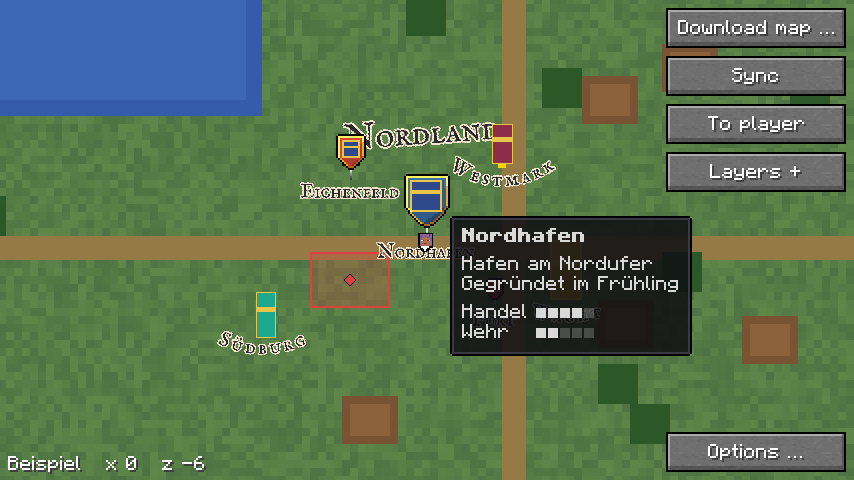
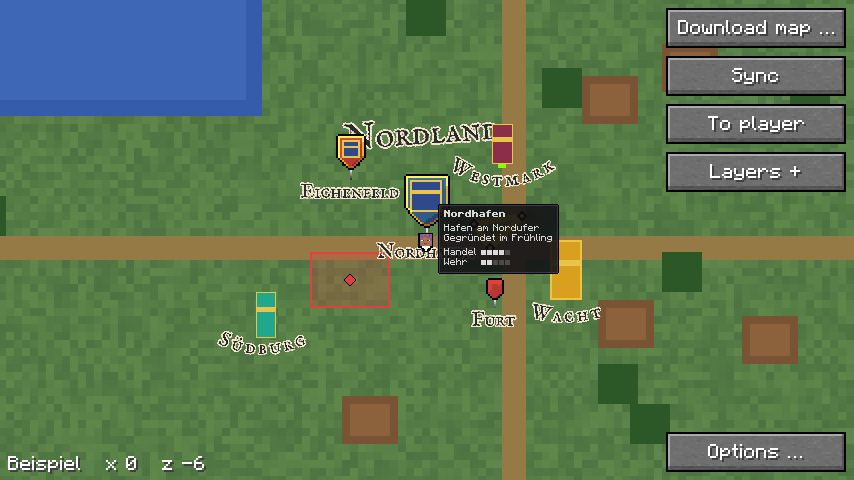
Doku: Massstab der Tafel in ebenen.md, Entscheidung 0020, Bild der Tafel neu (#121)

Changed region(s): [[0.4871, 0.4062, 0.822, 0.75]]

diff --git a/docs/entwicklung.md b/docs/entwicklung.md
@@ -122,7 +122,7 @@ eines Debuggers greift sie genauso.
 |---|---|
 | `Api` | läuft als erster: die Ebene, die `ProbeEbene` über den Entrypoint `heroicmap` beim Start anlegt, in der Liste der Vollbildkarte, mit Nadel und Formen, ohne Banner; sie übersteht eine Liste vom Server und das Trennen, eine Ebene vom Server mit derselben Kennung verdeckt sie, `remove` nimmt sie weg; siehe [API für Client-Mods](api.md) |
 | `Anmeldung` | die Reihenfolge beim Login: Beim ersten Level gibt es den Spieler noch nicht, wohl aber die Verbindung des Levels, aus der `Downloads.server` liest, siehe [Download](download.md), „Ablage“ |
-| `Bilder` | baut eine Szene und nimmt die Minimap auf, danach das Menü und die Vollbildkarte aus einem Testsatz mit zwei Wegpunkten, das Untermenü „Einstellungen …“, jeden Rahmen eckig und rund und das Menü mit Rahmen, auch mit halben Marken und dem Tooltip, die drehende Minimap, das ganze Fenster bei 854 × 480 und 1280 × 720 mit der Seite im Verhältnis, die Szene `formen` mit Flächen, Kreis, Linie und Kartenschrift und der offenen Liste der Ebenen, die Szene `orte` mit Nadeln, einem Banner und ihren Namen, gleich gross auf zwei Stufen der Vollbildkarte, und „Unicode-Schrift erzwingen“, das die Generation der Kartenschrift hebt, die Strahlen zweier angehefteter Wegpunkte in der Welt, den Schleier einer angehefteten Region am Hang, zuletzt die selbst gezeichnete Karte der Szene, in der Einzelspielerwelt mit 2 px gewählt über die Knöpfe und den Umschalter, neben der Minimap, die als beschäftigt gilt, auch mit Chunklinien; mit `-Pbilder=<ordner>` landen die Bilder dort, siehe [Minimap](minimap.md), „Bilder“, und [Vollbildkarte](vollbildkarte.md), „Bild“; ein Banner mit Entwurf und Krone als Sprite um seinen Fuss, am Bildschirmfoto geprüft; ein Banner einer geheimen Ebene, dessen Sprite über den Kanal kommt, am Bildschirmfoto um seinen Fuss |
+| `Bilder` | baut eine Szene und nimmt die Minimap auf, danach das Menü und die Vollbildkarte aus einem Testsatz mit zwei Wegpunkten, das Untermenü „Einstellungen …“, jeden Rahmen eckig und rund und das Menü mit Rahmen, auch mit halben Marken und dem Tooltip, die drehende Minimap, das ganze Fenster bei 854 × 480 und 1280 × 720 mit der Seite im Verhältnis, die Szene `formen` mit Flächen, Kreis, Linie und Kartenschrift und der offenen Liste der Ebenen, die Szene `orte` mit Nadeln, einem Banner und ihren Namen, gleich gross auf zwei Stufen der Vollbildkarte, und „Unicode-Schrift erzwingen“, das die Generation der Kartenschrift hebt, die Strahlen zweier angehefteter Wegpunkte in der Welt, den Schleier einer angehefteten Region am Hang, zuletzt die selbst gezeichnete Karte der Szene, in der Einzelspielerwelt mit 2 px gewählt über die Knöpfe und den Umschalter, neben der Minimap, die als beschäftigt gilt, auch mit Chunklinien; mit `-Pbilder=<ordner>` landen die Bilder dort, siehe [Minimap](minimap.md), „Bilder“, und [Vollbildkarte](vollbildkarte.md), „Bild“; ein Banner mit Entwurf und Krone als Sprite um seinen Fuss, am Bildschirmfoto geprüft; ein Banner einer geheimen Ebene, dessen Sprite über den Kanal kommt, am Bildschirmfoto um seinen Fuss; die Tafel bei 1920 × 1080 bei GUI-Massstab 4 so gross wie bei 2, gemessen an der Linie ihres Rahmens (`Bilder.tafelMassstab`) |
 | `Bedienung` | leert zu Beginn den Ordner der Einzelspielerwelt (`Bilder.leereWelt`), wie `Bilder`; das Menü und die Vollbildkarte mit echten Eingaben der Maus (`TestInput`): „Hierher teleportieren“ über Wasser auf die Oberfläche und in einen Chunk, den weder Client noch Server geladen haben, mit dem Boden der Karte von einem Server auf loopback, genau ein Abruf (`Bedienung.teleport`); Klicks und Halten wie von Hand, mit 1 bis 2 Pixeln Zittern zwischen Drücken und Loslassen (`Bedienung.zittere`); im Menü verschiebt Ziehen mit der linken wie der rechten Taste die ganze Minimap, auch vom Spieler aus; ein Klick auf den Spieler schaltet die Darstellung, einer auf eine Marke den Rahmen, auch gedreht, mit Verzierungen aus und ohne Rahmen auf den halben Marken, im Untermenü ebenso; ein Klick auf die Karte daneben schaltet nichts, Ziehen von einer Marke verschiebt nur, der Griff ändert nur die Grösse, der Zoom nur den Zoom; auf der Karte verschiebt links ziehen den Inhalt, ein Linksklick öffnet kein Menü, ein Rechtsklick öffnet „Hierher teleportieren“, ein Klick darauf teleportiert; Wegpunkte setzen, ziehen und klicken auf Marken am Rand, Doppelklick, Wegpunkt am eigenen Standort, einen Kreis und eine Nadel vom Server und ein altes Rechteck anheften; eine Region und eine Linie aus Wegpunkten bauen, die Region per Doppelklick anheften und löschen; Punkte im Tempo eines Spielers anfügen, und ein schneller Klick auf einen zweiten Wegpunkt ist kein Doppelklick auf den ersten; einen Wegpunkt nach 0,5 s Halten verschieben; eine Region auf leerer Karte bauen, Ecken treffen, löschen, einfügen und verschieben; die Liste der Ebenen aufklappen, eine Ebene mit „An/Aus“ aus- und anschalten, auch per Doppelklick, ohne dass etwas angeheftet wird, per Doppelklick auf den Namen ganz anheften und lösen, zuklappen; Menü und Untermenü bei 1280 × 720 und GUI-Massstab 3; siehe [Minimap](minimap.md), „Bedienung“, [Vollbildkarte](vollbildkarte.md), „Bedienung“, und [Wegpunkte](wegpunkte.md), „Tests“ |
 | `Blockentities` | Truhe, Tür, Schild und Kopf, im Einzelspieler und mit `-Peula` auf einem Server des Tests gesetzt und abgebaut wie ein Spieler, mit Rechts- und Linksklick; die Minimap zeigt sie ohne weiteres Zutun, verglichen am Bildschirmfoto an der Stelle des Blocks. Mit Sodium über `-Psodium`; siehe [Minimap](minimap.md), „Neu zeichnen“ |
 | `Spieler` | der eigene Spieler auf der Minimap als Kopf mit Pfeil, nur Pfeil und Kopf halb durchsichtig, je bei GUI-Massstab 1, 2 und 3, gedreht und ungedreht: der Pfeil waagrecht mittig, höchstens 0,5 px daneben, am Bildschirmfoto; mit `-Pbilder=<ordner>` die drei Darstellungen als Bild, siehe [Minimap](minimap.md), „Spieler“ |

diff --git a/docs/index.md b/docs/index.md
@@ -37,7 +37,7 @@ einer Datei findet `git grep -l "<pfad>" docs/` ihre Seiten.
 - [0007](entscheidungen/0007-toenung-auf-der-grafikkarte.md): Die Nadeln auf der Grafikkarte tönen, je Kanal höchstens eine Stufe anders als die Webkarte.
 - [0008](entscheidungen/0008-biom-rahmen-als-vorgabe.md): Der Rahmen „biom“ als Vorgabe, Zuordnung über Tags und Namen in fester Rangfolge, Wechsel nach 2 s; löst 0005 in der Vorgabe ab.
 - [0009](entscheidungen/0009-formen-als-trapeze.md): Füllungen als Trapeze statt Blöcken, ein Budget an Ecken je Neubau statt an Zeit je Frame.
-- [0010](entscheidungen/0010-tafel-200-einheiten.md): Die Infotafel im Mod höchstens 200 Einheiten breit mit 6 Rand, nicht 320 wie auf der Webkarte.
+- [0010](entscheidungen/0010-tafel-200-einheiten.md): Die Infotafel im Mod höchstens 200 Einheiten breit mit 6 Rand, nicht 320 wie auf der Webkarte; die Einheit ist seit 0020 die der Tafel.
 - [0011](entscheidungen/0011-modrinth-mit-curl.md): Releases per Workflow mit curl auf Modrinth, ohne fremde Action mit dem Token.
 - [0012](entscheidungen/0012-marken-statt-verzierungen.md): Der Rahmen zeigt nur die Marken N, O, S, W, genordet fest, gedreht starr mitdrehend, ohne zier; ein Schalter stellt sie ab, der Abstand zum Rand mit der halben Diagonale; löst 0005 in Ornamenten und Marken ab.
 - [0013](entscheidungen/0013-groesse-als-anteil-des-schirms.md): Die Seite der Minimap als Anteil der kürzeren Seite des Schirms, sie folgt dem Fenster; alte Einstellungen ohne Sprung.
@@ -45,6 +45,7 @@ einer Datei findet `git grep -l "<pfad>" docs/` ihre Seiten.
 - [0017](entscheidungen/0017-gametests-in-der-ci-auch-mit-sodium.md): Die Gametests laufen in der CI unter Xvfb, ohne und mit Sodium in der Version des Modpacks, fest mit Prüfsumme und nur für die Gametests.
 - [0018](entscheidungen/0018-api-fuer-client-mods.md): Ebenen anderer Fabric-Mods über `HeroicMapClientApi`, im JSON der Ebenen vom Server, englische Namen, Entrypoint `heroicmap` und Modrinth Maven; bei gleicher Kennung gilt der Server.
 - [0019](entscheidungen/0019-teleport-mit-fester-hoehe.md): „Hierher teleportieren“ mit fester Höhe, aus dem Chunk beim Client, sonst aus Boden oder Höhen der Karte per HTTP, sonst der alte Befehl mit Hinweis; nur die Ablage einer Wurzel, eine Region je Klick.
+- [0020](entscheidungen/0020-tafel-mit-eigenem-massstab.md): Die Infotafel mit eigenem ganzem Massstab bis zum GUI-Massstab, höchstens etwa ein Fünftel der Fensterbreite, geeicht auf 1920 × 1080 bei GS 2.
 - [0014](entscheidungen/0014-eigene-karte-mit-massstab.md): Die eigene Karte mit 1, 2 oder 4 Pixeln je Block, fest bis zum Löschen, der Baum wie ein Download; löst 0004 im Massstab ab.
 - [0015](entscheidungen/0015-ordner-fuer-einzelspielerwelten.md): Ein Ordner der Welt auch im Einzelspieler, unter heroicmap/ nach Speicherordner und Hash, nicht im Speicherordner der Welt; löst 0004 im Einzelspieler ab.
 

diff --git a/docs/ebenen.md b/docs/ebenen.md
@@ -589,7 +589,24 @@ hat. Auf der Minimap gibt es keine Tafel, wie im Format.
   oben. Titel und Labels höchstens 64 Zeichen, Zeilen 120, Bilder 512 × 512,
   Wertungen 20 Punkte; dazu eigene Grenzen, 64 Zeilen je Baustein und 20
   Reihen je Wertung. Texte schlicht, Codes mit `§` gestrichen.
-- **Gesetzt** (`Tafel.setze`) in Einheiten der Oberfläche, mit der Schrift
+- **Massstab:** Die Tafel hat einen eigenen, ganzen Massstab g', Pixel je
+  Einheit der Tafel (`Tafel.massstab`). Er ist der grösste bis zum
+  GUI-Massstab, bei dem die breiteste Tafel, 200 Inhalt und 2 × 6 Rand, also
+  212 Einheiten, höchstens 23 % der Breite des Fensters und 212 Einheiten
+  höchstens die Hälfte seiner Höhe einnehmen; mindestens 1. Gezeichnet mit der
+  Pose g'/GUI-Massstab, so liegen die Pixel der Schrift ganz und scharf.
+  So hat es der Reviewer entschieden, siehe
+  [0020](entscheidungen/0020-tafel-mit-eigenem-massstab.md): Bei Auto,
+  auf 1920 × 1080 also GUI-Massstab 4, nahm die Tafel bis 0.2.38 gut 40 %
+  der Breite ein (mod#121).
+  - **Geeicht** auf 1920 × 1080 bei GUI-Massstab 2: dort bleibt g' = 2,
+    die Tafel wie bisher. 23 % statt 22 %, sonst fiele das auf 1.
+  - **Werte:** 1920 × 1080 und 2560 × 1440 geben höchstens 2, 3840 × 2160
+    höchstens 4, 1280 × 720 und 854 × 480 geben 1. In kleinen Fenstern ist
+    die Schrift der Tafel so kleiner als die der Knöpfe.
+  - **Lage und Abstände** rechnen in Einheiten der Tafel; Treffer der Maus,
+    Scrollen und Klicks rechnen ihren Kasten zurück in Einheiten des GUI.
+- **Gesetzt** (`Tafel.setze`) in Einheiten der Tafel, mit der Schrift
   des Spiels in ihrer Grösse: Der Inhalt ist so breit wie sein breitester
   Baustein, höchstens 200 Einheiten, und nicht 320 wie auf der Webkarte;
   6 Innenabstand, 4 zwischen Bausteinen, 6 vor einem Abschnitt, siehe
@@ -622,7 +639,7 @@ hat. Auf der Minimap gibt es keine Tafel, wie im Format.
   an Pixeln und 1024 Einträge, darüber gibt er die am längsten nicht
   gezeigten frei; so hat es der Reviewer entschieden. Die Deckel der
   Symbole und Banner gelten für sie nicht. Gerechnet in Pixeln des
-  Schirms: Grösser als auf der Tafel mal GUI-Massstab verkleinert der
+  Schirms: Grösser als auf der Tafel mal g' verkleinert der
   Mod ein Bild vorab im eigenen Thread geglättet auf genau diese Grösse
   und zeichnet es Pixel auf Pixel; so bleibt bei grossem Massstab das
   Detail. Kleiner vergrössert er es um einen ganzen Faktor, abgerundet,

diff --git a/docs/entscheidungen/0020-tafel-mit-eigenem-massstab.md b/docs/entscheidungen/0020-tafel-mit-eigenem-massstab.md
@@ -1,0 +1,51 @@
+---
+title: "0020: Die Tafel mit eigenem Massstab"
+description: Warum die Infotafel einen eigenen ganzen Massstab bis zum GUI-Massstab bekommt, der sie auf etwa ein Fünftel der Fensterbreite hält, und warum er auf 1920 × 1080 bei GUI-Massstab 2 geeicht ist.
+status: gilt
+date: 2026-10-11
+issues: [121]
+code:
+  - src/main/java/com/nekyia/heroicmap/Tafel.java
+  - src/main/java/com/nekyia/heroicmap/Karte.java
+---
+
+# 0020: Die Tafel mit eigenem Massstab
+
+## Anlass
+
+Der User fand die Tafel bei der Vorgabe Auto zu gross, bei seinem
+GUI-Massstab 2 genau richtig (mod#121). Auto ist auf 1920 × 1080
+GUI-Massstab 4; die Tafel mit bis zu 212 Einheiten nahm dort gut 40 % der
+Breite ein. Sie folgte dem GUI-Massstab wie die Menüs, gemessen bei GS 2
+und 3; das war das Problem, kein Fehler im Zeichnen.
+
+## Entscheidung
+
+- **Ein eigener, ganzer Massstab** g' bis zum GUI-Massstab: der grösste, bei
+  dem die breiteste Tafel höchstens etwa 22 % der Breite und die Hälfte der
+  Höhe des Fensters in Pixeln einnimmt, mindestens 1. Gezeichnet mit der
+  Pose g'/GUI-Massstab, so bleiben die Pixel der Schrift ganz und scharf.
+- **Geeicht** so, dass 1920 × 1080 bei GUI-Massstab 2 unverändert bleibt;
+  dafür steht im Code 23 % statt 22 %.
+- **Bilder** bleiben bei der Regel der Infotafel, in Pixeln von g' statt
+  des GUI-Massstabs.
+- **Treffer der Maus** auf die Tafel rechnen ihren Kasten zurück in
+  Einheiten des GUI.
+- Die 200 Einheiten aus [0010](0010-tafel-200-einheiten.md) bleiben,
+  gemessen in Einheiten der Tafel.
+
+Entschieden vom Reviewer am 11.10.
+
+## Verworfene Alternativen
+
+- **Die Pose genau auf eine Breite in Pixeln:** Ein Massstab, der kein
+  ganzer ist, verteilt die Pixel der Schrift ungleich; die Tafel stünde
+  unscharf neben scharfen Menüs.
+- **Weniger Inhalt bei grossem GUI-Massstab:** Der Inhalt käme dann vom
+  GUI-Massstab ab, nicht von der Tafel.
+
+## Folgen
+
+- In kleinen Fenstern, 1280 × 720 und kleiner, ist g' = 1 und die Schrift
+  der Tafel kleiner als die der Knöpfe.
+- Siehe [Ebenen](../ebenen.md), „Infotafel“.
